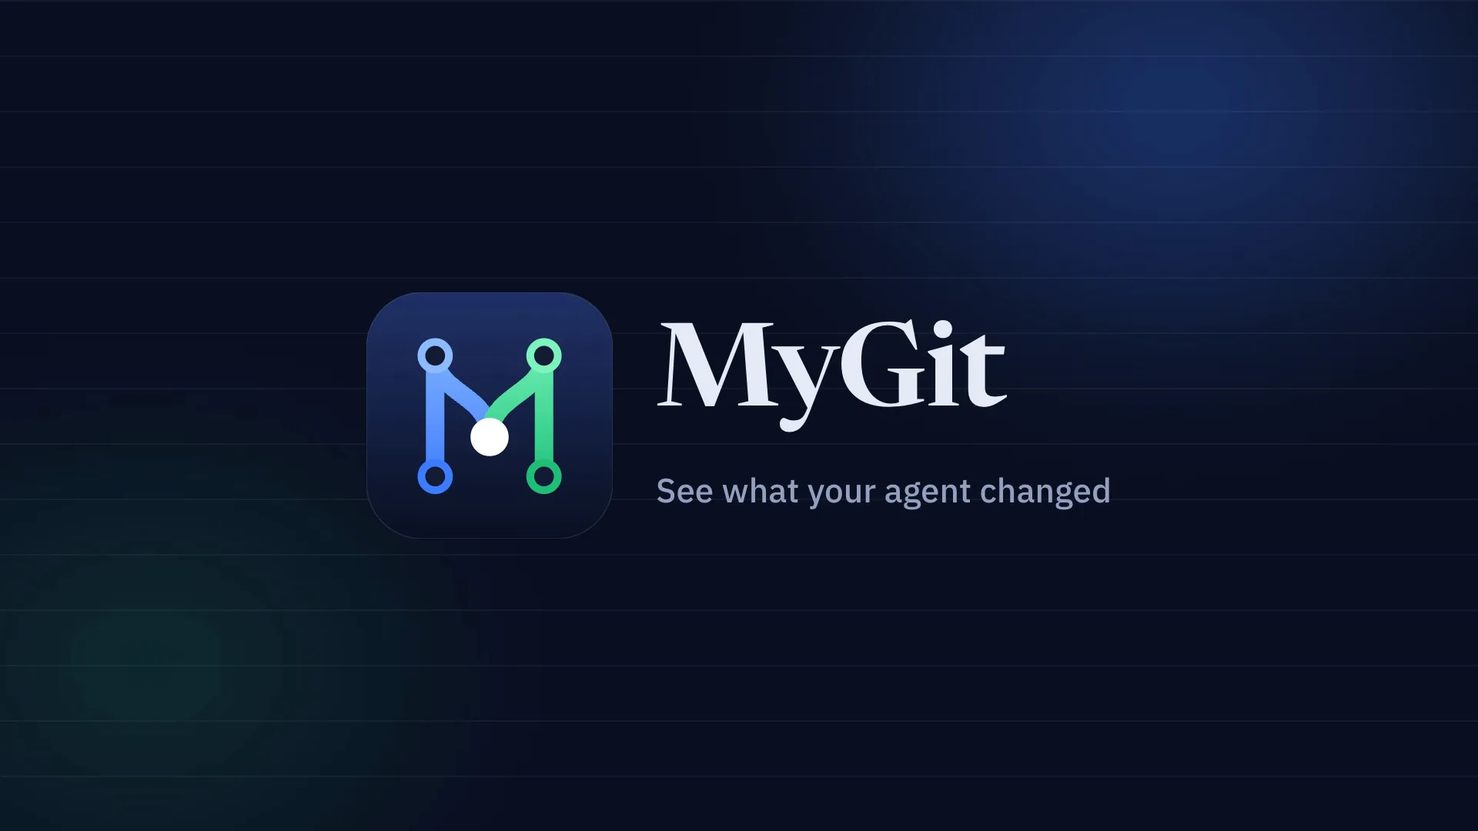
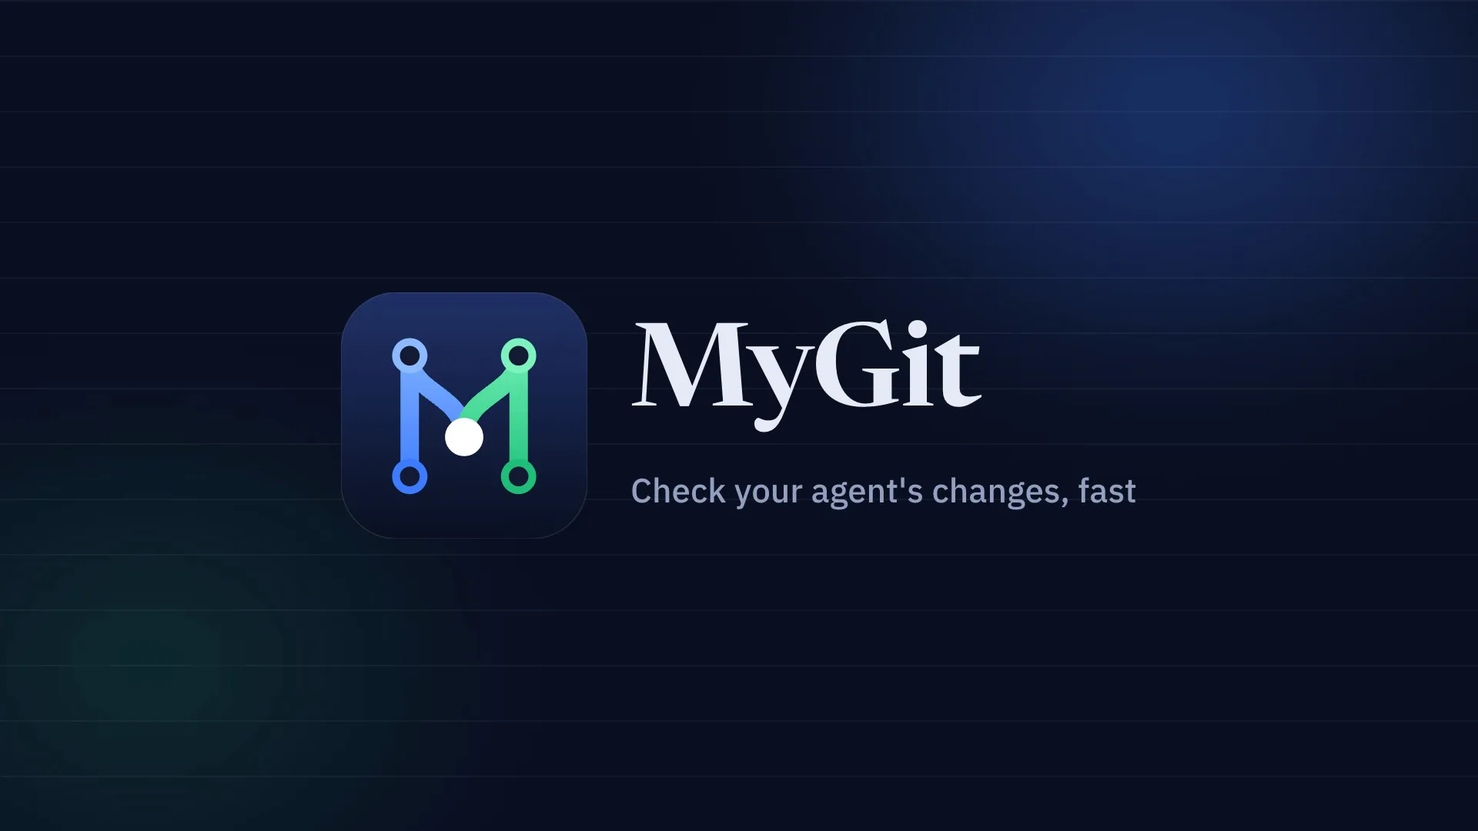
Say what MyGit is for: checking an agent's changes, fast

Changed region(s): [[0.2188, 0.3361, 0.6875, 0.6111], [0.4062, 0.5806, 0.7812, 0.6111]]

diff --git a/video/vertical/index.html b/video/vertical/index.html
@@ -76,8 +76,12 @@
 
       /* ---------- Scene 7: the memory ---------- */
       #s7 { padding: 0 0 0 132px; display: flex; flex-direction: column; justify-content: center; }
-      #s7 .headline { font-size: 100px; margin: 18px 0 60px; }
-      #root.zh #s7 .headline { font-size: 92px; }
+      #s7 .headline { font-size: 84px; margin: 18px 0 44px; }
+      .stats { display: flex; gap: 90px; margin-bottom: 48px; }
+      .stat { display: flex; flex-direction: column; gap: 10px; max-width: 560px; }
+      .stat b { font: 600 76px/1 var(--mono); color: var(--green); }
+      .stat > span { font-size: 28px; color: var(--muted); }
+      #root.zh #s7 .headline { font-size: 80px; }
       .bar-row { display: grid; grid-template-columns: 360px 1060px 220px; align-items: center; gap: 36px; margin-bottom: 30px; }
       .bar-label { font-size: 36px; color: var(--muted); }
       .bar-label.me { color: #E6ECF7; font-weight: 600; }
@@ -112,8 +116,12 @@
       #s1 .tag { margin-top: 10px; font-size: 50px; }
       #app { left: 40px; top: 510px; width: 1000px; height: 740px; }
       #s7 { padding: 0 70px 260px; }
-      #s7 .headline { font-size: 96px; margin: 18px 0 70px; }
-      #root.zh #s7 .headline { font-size: 92px; }
+      #s7 .headline { font-size: 84px; margin: 18px 0 50px; }
+      .stats { gap: 40px; margin-bottom: 56px; }
+      .stat { max-width: 440px; }
+      .stat b { font-size: 80px; }
+      .stat > span { font-size: 30px; }
+      #root.zh #s7 .headline { font-size: 80px; }
       .bar-row { grid-template-columns: 1fr 240px; gap: 16px 24px; margin-bottom: 44px; }
       .bar-label { grid-column: 1 / -1; font-size: 40px; }
       .bar-value { font-size: 44px; }
@@ -159,7 +167,7 @@
         </svg>
         <div data-hf-id="hf-trrc" class="word">
           <div data-hf-id="hf-plil" class="name">MyGit</div>
-          <div data-hf-id="hf-9ojz" class="tag" data-t="tagline">See what your agent changed</div>
+          <div data-hf-id="hf-9ojz" class="tag" data-t="tagline">Check your agent's changes, fast</div>
         </div>
       </section>
 
@@ -206,7 +214,7 @@
       </div>
 
       <section data-hf-id="hf-x1hi" id="s2" class="clip" data-start="3.5" data-duration="7.5" data-track-index="3">
-        <div data-hf-id="hf-8hv4" class="cap high" id="cap2"><p data-hf-id="hf-s4jw" class="eyebrow"><b data-hf-id="hf-wxem">$</b>git status</p><h2 data-hf-id="hf-2g5c" class="headline" data-t="s2">Changes show up as the agent works</h2></div>
+        <div data-hf-id="hf-8hv4" class="cap high" id="cap2"><p data-hf-id="hf-s4jw" class="eyebrow"><b data-hf-id="hf-wxem">$</b>git status</p><h2 data-hf-id="hf-2g5c" class="headline" data-t="s2">It edits, you see it. No refresh</h2></div>
       </section>
       <section data-hf-id="hf-jt35" id="s3" class="clip" data-start="11" data-duration="6" data-track-index="3">
         <div data-hf-id="hf-xclk" class="cap" id="cap3"><p data-hf-id="hf-gu14" class="eyebrow"><b data-hf-id="hf-l9t1">01</b>git diff</p><h2 data-hf-id="hf-hxqy" class="headline" data-t="s3">Every change, side by side</h2></div>
@@ -218,13 +226,18 @@
         <div data-hf-id="hf-wjzi" class="cap high" id="cap5"><p data-hf-id="hf-wfn4" class="eyebrow"><b data-hf-id="hf-q3a8">03</b>comments → agent</p><h2 data-hf-id="hf-uhgs" class="headline" data-t="s5">Hand the rest back to the agent</h2></div>
       </section>
       <section data-hf-id="hf-a050" id="s6" class="clip" data-start="30" data-duration="4" data-track-index="3">
-        <div data-hf-id="hf-a051" class="cap" id="cap6"><p data-hf-id="hf-a052" class="eyebrow"><b data-hf-id="hf-a053">$</b>git log --graph</p><h2 data-hf-id="hf-a054" class="headline" data-t="s6">The IDE you know, without the IDE</h2><p data-hf-id="hf-a055" class="sub" data-t="s6sub">JetBrains' graph and history, VS Code's staging</p></div>
+        <div data-hf-id="hf-a051" class="cap" id="cap6"><p data-hf-id="hf-a052" class="eyebrow"><b data-hf-id="hf-a053">$</b>mygit .</p><h2 data-hf-id="hf-a054" class="headline" data-t="s6">Opens at once.
+No IDE needed</h2><p data-hf-id="hf-a055" class="sub" data-t="s6sub">JetBrains' graph and history, VS Code's staging</p></div>
       </section>
 
       <!-- 7 · The memory it saves -->
       <section data-hf-id="hf-o8jn" id="s7" class="clip" data-start="34" data-duration="4" data-track-index="1">
-        <p data-hf-id="hf-d5fg" class="eyebrow"><b data-hf-id="hf-vqav">$</b>ps -o rss</p>
-        <h2 data-hf-id="hf-hsvb" class="headline" data-t="s7">A fraction of the memory</h2>
+        <p data-hf-id="hf-d5fg" class="eyebrow"><b data-hf-id="hf-vqav">$</b>go test -bench .</p>
+        <h2 data-hf-id="hf-hsvb" class="headline" data-t="s7">Fast, in a fraction of the memory</h2>
+        <div data-hf-id="hf-a080" class="stats">
+          <div data-hf-id="hf-a081" class="stat"><b data-hf-id="hf-a082"><span data-hf-id="hf-a083" id="v-read">0.00</span> s</b><span data-hf-id="hf-a084" data-t="read">to read 20,000 commits and lay out the graph</span></div>
+          <div data-hf-id="hf-a085" class="stat"><b data-hf-id="hf-a086"><span data-hf-id="hf-a087" id="v-open">0.00</span> s</b><span data-hf-id="hf-a088" data-t="open">to open a commit with a 20 MB patch</span></div>
+        </div>
         <div data-hf-id="hf-vxho" class="bar-row">
           <div data-hf-id="hf-argy" class="bar-label me">MyGit</div>
           <div data-hf-id="hf-ufsv" class="bar"><div data-hf-id="hf-1jw9" id="fill-me" class="fill"></div></div>
@@ -247,7 +260,7 @@
       <section data-hf-id="hf-8ref" id="s8" class="clip" data-start="38" data-duration="4" data-track-index="1">
         <img data-hf-id="hf-n4tg" id="end-mark" src="assets/logo.svg" alt="" />
         <div data-hf-id="hf-tof5" class="name">MyGit</div>
-        <div data-hf-id="hf-a070" class="tag" data-t="tagline">See what your agent changed</div>
+        <div data-hf-id="hf-a070" class="tag" data-t="tagline">Check your agent's changes, fast</div>
         <div data-hf-id="hf-exrd" class="chips">
           <div data-hf-id="hf-u5aj" class="chip">macOS</div>
           <div data-hf-id="hf-776b" class="chip">Windows</div>

diff --git a/video/demo/index.html b/video/demo/index.html
@@ -76,9 +76,13 @@
 
       /* ---------- Scene 7: the memory ---------- */
       #s7 { padding: 0 0 0 132px; display: flex; flex-direction: column; justify-content: center; }
-      #s7 .headline { font-size: 100px; margin: 18px 0 60px; }
-      #root.zh #s7 .headline { font-size: 92px; }
-      .bar-row { display: grid; grid-template-columns: 360px 1060px 220px; align-items: center; gap: 36px; margin-bottom: 30px; }
+      #s7 .headline { font-size: 84px; margin: 18px 0 44px; }
+      .stats { display: flex; gap: 90px; margin-bottom: 48px; }
+      .stat { display: flex; flex-direction: column; gap: 10px; max-width: 560px; }
+      .stat b { font: 600 76px/1 var(--mono); color: var(--green); }
+      .stat > span { font-size: 28px; color: var(--muted); }
+      #root.zh #s7 .headline { font-size: 80px; }
+      .bar-row { display: grid; grid-template-columns: 360px 1060px 220px; align-items: center; gap: 36px; margin-bottom: 20px; }
       .bar-label { font-size: 36px; color: var(--muted); }
       .bar-label.me { color: #E6ECF7; font-weight: 600; }
       .bar { height: 44px; border-radius: 22px; background: rgba(31, 42, 72, .8); overflow: hidden; }
@@ -133,7 +137,7 @@
         </svg>
         <div data-hf-id="hf-trrc" class="word">
           <div data-hf-id="hf-plil" class="name">MyGit</div>
-          <div data-hf-id="hf-9ojz" class="tag" data-t="tagline">See what your agent changed</div>
+          <div data-hf-id="hf-9ojz" class="tag" data-t="tagline">Check your agent's changes, fast</div>
         </div>
       </section>
 
@@ -180,7 +184,7 @@
       </div>
 
       <section data-hf-id="hf-x1hi" id="s2" class="clip" data-start="3.5" data-duration="7.5" data-track-index="3">
-        <div data-hf-id="hf-8hv4" class="cap high" id="cap2"><p data-hf-id="hf-s4jw" class="eyebrow"><b data-hf-id="hf-wxem">$</b>git status</p><h2 data-hf-id="hf-2g5c" class="headline" data-t="s2">Changes show up as the agent works</h2></div>
+        <div data-hf-id="hf-8hv4" class="cap high" id="cap2"><p data-hf-id="hf-s4jw" class="eyebrow"><b data-hf-id="hf-wxem">$</b>git status</p><h2 data-hf-id="hf-2g5c" class="headline" data-t="s2">It edits, you see it. No refresh</h2></div>
       </section>
       <section data-hf-id="hf-jt35" id="s3" class="clip" data-start="11" data-duration="6" data-track-index="3">
         <div data-hf-id="hf-xclk" class="cap" id="cap3"><p data-hf-id="hf-gu14" class="eyebrow"><b data-hf-id="hf-l9t1">01</b>git diff</p><h2 data-hf-id="hf-hxqy" class="headline" data-t="s3">Every change, side by side</h2></div>
@@ -192,13 +196,18 @@
         <div data-hf-id="hf-wjzi" class="cap high" id="cap5"><p data-hf-id="hf-wfn4" class="eyebrow"><b data-hf-id="hf-q3a8">03</b>comments → agent</p><h2 data-hf-id="hf-uhgs" class="headline" data-t="s5">Hand the rest back to the agent</h2></div>
       </section>
       <section data-hf-id="hf-a050" id="s6" class="clip" data-start="30" data-duration="4" data-track-index="3">
-        <div data-hf-id="hf-a051" class="cap" id="cap6"><p data-hf-id="hf-a052" class="eyebrow"><b data-hf-id="hf-a053">$</b>git log --graph</p><h2 data-hf-id="hf-a054" class="headline" data-t="s6">The IDE you know, without the IDE</h2><p data-hf-id="hf-a055" class="sub" data-t="s6sub">JetBrains' graph and history, VS Code's staging</p></div>
+        <div data-hf-id="hf-a051" class="cap" id="cap6"><p data-hf-id="hf-a052" class="eyebrow"><b data-hf-id="hf-a053">$</b>mygit .</p><h2 data-hf-id="hf-a054" class="headline" data-t="s6">Opens at once.
+No IDE needed</h2><p data-hf-id="hf-a055" class="sub" data-t="s6sub">JetBrains' graph and history, VS Code's staging</p></div>
       </section>
 
       <!-- 7 · The memory it saves -->
       <section data-hf-id="hf-o8jn" id="s7" class="clip" data-start="34" data-duration="4" data-track-index="1">
-        <p data-hf-id="hf-d5fg" class="eyebrow"><b data-hf-id="hf-vqav">$</b>ps -o rss</p>
-        <h2 data-hf-id="hf-hsvb" class="headline" data-t="s7">A fraction of the memory</h2>
+        <p data-hf-id="hf-d5fg" class="eyebrow"><b data-hf-id="hf-vqav">$</b>go test -bench .</p>
+        <h2 data-hf-id="hf-hsvb" class="headline" data-t="s7">Fast, in a fraction of the memory</h2>
+        <div data-hf-id="hf-a080" class="stats">
+          <div data-hf-id="hf-a081" class="stat"><b data-hf-id="hf-a082"><span data-hf-id="hf-a083" id="v-read">0.00</span> s</b><span data-hf-id="hf-a084" data-t="read">to read 20,000 commits and lay out the graph</span></div>
+          <div data-hf-id="hf-a085" class="stat"><b data-hf-id="hf-a086"><span data-hf-id="hf-a087" id="v-open">0.00</span> s</b><span data-hf-id="hf-a088" data-t="open">to open a commit with a 20 MB patch</span></div>
+        </div>
         <div data-hf-id="hf-vxho" class="bar-row">
           <div data-hf-id="hf-argy" class="bar-label me">MyGit</div>
           <div data-hf-id="hf-ufsv" class="bar"><div data-hf-id="hf-1jw9" id="fill-me" class="fill"></div></div>
@@ -221,7 +230,7 @@
       <section data-hf-id="hf-8ref" id="s8" class="clip" data-start="38" data-duration="4" data-track-index="1">
         <img data-hf-id="hf-n4tg" id="end-mark" src="assets/logo.svg" alt="" />
         <div data-hf-id="hf-tof5" class="name">MyGit</div>
-        <div data-hf-id="hf-a070" class="tag" data-t="tagline">See what your agent changed</div>
+        <div data-hf-id="hf-a070" class="tag" data-t="tagline">Check your agent's changes, fast</div>
         <div data-hf-id="hf-exrd" class="chips">
           <div data-hf-id="hf-u5aj" class="chip">macOS</div>
           <div data-hf-id="hf-776b" class="chip">Windows</div>

diff --git a/site/index.html b/site/index.html
@@ -3,10 +3,10 @@
 <head>
   <meta charset="utf-8">
   <meta name="viewport" content="width=device-width, initial-scale=1">
-  <title>MyGit — see what your agent changed</title>
-  <meta name="description" content="See what your agent changed: every change in your working tree, side by side, as it lands. A light, fast, modern git client with JetBrains' commit graph and history tools and VS Code's way of staging, in a fraction of the memory.">
-  <meta property="og:title" content="MyGit — see what your agent changed">
-  <meta property="og:description" content="Every change, side by side, as it lands. A light, native git client for macOS, Windows and Linux.">
+  <title>MyGit — check your agent's changes, fast</title>
+  <meta name="description" content="Check your agent's changes, fast: mygit . in a terminal opens it in a moment, and it refreshes as the agent works. A light, fast, modern git client with JetBrains' commit graph and history tools and VS Code's way of staging, in a fraction of the memory.">
+  <meta property="og:title" content="MyGit — check your agent's changes, fast">
+  <meta property="og:description" content="Opens in a moment from a terminal, refreshes as the agent works. A light, native git client for macOS, Windows and Linux.">
   <meta property="og:image" content="assets/main-en.webp">
   <meta name="theme-color" content="#07090F">
   <link rel="icon" href="assets/favicon.png">
@@ -51,8 +51,8 @@
         <span data-i18n="hero.pill">Made for coding with agents · Native · Light</span>
         <span class="pill-arrow" aria-hidden="true">→</span>
       </a>
-      <h1 data-i18n-html="hero.title">See what your agent<br><span class="grad">changed</span></h1>
-      <p class="lede" data-i18n="hero.lede">Every change in your working tree, side by side, as it lands. Stage what's right and commit, without opening an IDE — in a light, fast, modern git client with JetBrains' history tools and VS Code's way of staging.</p>
+      <h1 data-i18n-html="hero.title">Check your agent's<br><span class="grad">changes, fast</span></h1>
+      <p class="lede" data-i18n-html="hero.lede"><code>mygit .</code> in a terminal opens it in a moment, and it refreshes as the agent works. Stage what's right and commit, without waiting for an IDE — in a light, fast, modern git client with JetBrains' history tools and VS Code's way of staging.</p>
       <div class="cta">
         <a class="btn btn-primary" href="#install" data-i18n="hero.get">Get MyGit</a>
         <a class="btn btn-ghost" href="#demo"><span aria-hidden="true">▶</span> <span data-i18n="hero.watch">Watch the demo</span></a>
@@ -85,7 +85,7 @@
     <section id="why" class="section">
       <p class="eyebrow" data-i18n="flow.eyebrow">Made for coding with agents</p>
       <h2 data-i18n="flow.title">Most of your time in git is spent looking at what changed.</h2>
-      <p class="section-lede" data-i18n="flow.lede">MyGit is made for that. It reads the repository, not an agent's session, so it works the same with any agent, with several at once, and with your own edits.</p>
+      <p class="section-lede" data-i18n="flow.lede">MyGit makes that quick. It reads the repository, not an agent's session, so it works the same with any agent, with several at once, and with your own edits.</p>
 
       <ol class="steps reveal">
         <li class="card">

diff --git a/video/demo/film.js b/video/demo/film.js
@@ -5,27 +5,31 @@
 
 const TEXT = {
   en: {
-    tagline: "See what your agent changed",
-    s2: "Changes show up as the agent works",
-    s3: "Every change, side by side",
-    s4: "Stage what's right",
-    s5: "Hand the rest back to the agent",
-    s6: "The IDE you know, without the IDE",
+    tagline: "Check your agent's changes, fast",
+    s2: "It edits,\nyou see it.\nNo refresh",
+    s3: "One click,\nside by side",
+    s4: "Stage what's right,\nin one click",
+    s5: "Copy the rest\nback to the agent",
+    s6: "Opens at once.\nNo IDE needed",
     s6sub: "JetBrains' graph and history, VS Code's staging",
-    s7: "A fraction of the memory",
+    s7: "Fast, in a fraction of the memory",
+    read: "to read 20,000 commits and lay out the graph",
+    open: "to open a commit with a 20 MB patch",
     note: "Memory with a repository of 20,000 commits open",
     ask: "add retries to fetchAll, with a test",
     reply: "After the third try this gives up without a word…",
   },
   zh: {
-    tagline: "看清 agent 改了什么",
-    s2: "agent 改着，\n改动就出现",
-    s3: "看：每处改动，\n并排看清",
-    s4: "留：没问题的，\n先暂存",
-    s5: "退：其余的，\n交回给 agent",
-    s6: "熟悉的 IDE 体验，\n不用打开 IDE",
+    tagline: "快速查看 agent 的改动",
+    s2: "不用刷新，\n它改到哪你看到哪",
+    s3: "看：点一下，\n就是并排 diff",
+    s4: "留：没问题的，\n一键暂存",
+    s5: "退：其余的，\n一键交回 agent",
+    s6: "终端一句命令，\n秒开，不用等 IDE",
     s6sub: "JetBrains 的分支图和历史，VS Code 的暂存方式",
-    s7: "内存只要零头",
+    s7: "快，内存还只要零头",
+    read: "读完 2 万个提交并布局分支图",
+    open: "打开一个 20 MB 补丁的提交",
     note: "打开 2 万个提交的仓库后的内存占用",
     ask: "给 fetchAll 加上重试，再补个测试",
     reply: "试满三次就悄悄放弃了…",
@@ -185,6 +189,14 @@ function film(cam, register) {
     // 7 · dataviz-countup with stat-bars-and-fills: the bars grow and their
     // numbers count up.
     tl.fromTo("#s7 > *", { opacity: 0, y: 30 }, { opacity: 1, y: 0, duration: 0.5, ease: "power3.out", stagger: 0.08 }, 34.1);
+    const speed = { read: 0, open: 0 };
+    tl.fromTo(speed, { read: 0, open: 0 }, {
+      read: 0.13, open: 0.24, duration: 1.2, ease: "power2.out",
+      onUpdate: () => {
+        document.getElementById("v-read").textContent = speed.read.toFixed(2);
+        document.getElementById("v-open").textContent = speed.open.toFixed(2);
+      },
+    }, 34.4);
     const bars = [["#fill-me", "#v-me", 109], ["#fill-code", "#v-code", 1000], ["#fill-idea", "#v-idea", 2300]];
     const count = { me: 0, code: 0, idea: 0 };
     bars.forEach(([fill, , mb]) => tl.fromTo(fill, { scaleX: 0 }, { scaleX: mb / 2300, duration: 1.5, ease: "power2.out" }, 34.5));

diff --git a/site/main.js b/site/main.js
@@ -7,8 +7,8 @@ const zh = {
   "nav.features": "功能",
   "nav.install": "安装",
   "hero.pill": "为 agent 写代码而做 · 原生 · 轻量",
-  "hero.title": "<span class=\"nw\">看清 agent</span><br><span class=\"grad nw\">改了什么</span>",
-  "hero.lede": "工作区的每处改动，边改边并排显示。没问题的暂存、提交，不用打开 IDE：一个轻量、快速、现代的 git 客户端，有 JetBrains 的历史操作和 VS Code 的暂存方式。",
+  "hero.title": "<span class=\"nw\">快速查看</span><br><span class=\"grad nw\">agent 的改动</span>",
+  "hero.lede": "在终端里敲 <code>mygit .</code> 就能打开。agent 每改一个文件，这里马上就能看到，不用手动刷新；没问题的直接暂存、提交，不用等 IDE 启动。分支图和历史像 JetBrains，暂存像 VS Code，又轻又快。",
   "hero.get": "获取 MyGit",
   "hero.watch": "观看演示",
   "hero.platforms": "macOS · Windows · Linux",
@@ -16,9 +16,9 @@ const zh = {
   "demo.title": "一分钟内看懂 MyGit。",
   "flow.eyebrow": "为 agent 写代码而做",
   "flow.title": "用 git 的大部分时间，都在看改了什么。",
-  "flow.lede": "MyGit 就是为这件事做的。它读的是仓库，不是某个 agent 的会话，所以换哪个 agent、同时用几个、还是你自己改的代码，用起来都一样。",
+  "flow.lede": "MyGit 让这件事变快。它读的是仓库，不是某个 agent 的会话，所以换哪个 agent、同时用几个、还是你自己改的代码，用起来都一样。",
   "flow.s1.title": "看",
-  "flow.s1.body": "改动一落地就能看到：agent 改着窗口就自动刷新，每个文件并排对比、带语法高亮。锁文件和生成的文件自动折叠，图片改动显示前后对比。",
+  "flow.s1.body": "文件一改，这里马上就能看到，不用手动刷新。每个文件并排对比、带语法高亮。锁文件和生成的文件自动折叠，图片改动显示前后对比。",
   "flow.s2.title": "留",
   "flow.s2.body": "直接在 diff 里修一行，把没问题的文件、改动块或行暂存起来，然后提交。",
   "flow.s3.title": "退",
@@ -42,7 +42,7 @@ const zh = {
   "vs.ide": "打开 IDE",
   "vs.ide.a": "点开就能用，内存只要零头",
   "vs.term": "终端里跑 <code>git diff</code>",
-  "vs.term.a": "并排对比，生成文件自动折叠，agent 改着就自动刷新",
+  "vs.term.a": "并排对比，生成文件自动折叠，文件一改马上能看到",
   "features.eyebrow": "功能",
   "features.title": "常用的都在，用不上的一个没有。",
   "f1.title": "想暂存什么就暂存什么。",

diff --git a/site/style.css b/site/style.css
@@ -315,7 +315,7 @@ html[lang="zh-CN"] .hero h1 { line-height: 1.18; letter-spacing: 0; font-size: c
 .tile-6 .tile-copy { flex: 0 0 34%; padding: 36px; }
 .tile h3 { font-size: 22px; letter-spacing: -.02em; }
 .tile p { margin: 10px 0 0; color: var(--muted); font-size: 15px; }
-.tile p code { color: var(--green-hi); }
+.tile p code, .lede code { color: var(--green-hi); }
 .tile-shot {
   margin: 26px 0 0 30px;
   border-radius: 12px 0 0 0;

diff --git a/video/demo/STORYBOARD.md b/video/demo/STORYBOARD.md
@@ -1,7 +1,7 @@
 ---
 format: 1920x1080 (index.html), 1080x1920 (../vertical/index.html)
 duration: 42s
-message: "See what your agent changed: stage what's right, hand the rest back"
+message: "Check your agent's changes, fast: open it from a terminal, stage what's right, hand the rest back"
 arc: Brand → Agent at work → See → Keep → Send back → The IDE you know → Proof → Outro
 audience: developers who code with agents and find IDEs heavy
 mode: collaborative
@@ -14,38 +14,39 @@ own camera ([x, y, zoom] of the screenshots).
 
 ## Frame 1: Brand open (0-3.6s)
 - blueprint: logo-assemble-lockup
-- caption: "See what your agent changed" / "看清 agent 改了什么"
+- caption: "Check your agent's changes, fast" / "快速查看 agent 的改动"
 
 ## Frame 2: The agent at work (3.5-11s)
 - blueprint: device-surface-showcase (rules: cursor-ui-demo)
 - The agent's terminal lists its edits; the window refreshes with them, the
   change list growing from none to one to three (clean → one → three).
-- caption: "Changes show up as the agent works" / "agent 改着，改动就出现"
+- caption: "It edits, you see it. No refresh" / "不用刷新，它改到哪你看到哪"
 
 ## Frame 3: See (11-17s)
 - rules: cursor-click-ripple, coordinate-target-zoom
 - api.ts opens side by side; the camera pushes into the retry loop. The
   lockfile opens folded away.
-- caption: "Every change, side by side" / "看：每处改动，并排看清"
+- caption: "One click, side by side" / "看：点一下，就是并排 diff"
 
 ## Frame 4: Keep (17-22s)
 - rules: cursor-click-ripple
 - The lockfile and the test are staged with their + buttons; Staged Changes lights.
-- caption: "Stage what's right" / "留：没问题的，先暂存"
+- caption: "Stage what's right, in one click" / "留：没问题的，一键暂存"
 
 ## Frame 5: Send back (22-30s)
 - rules: coordinate-target-zoom, cursor-click-ripple
 - A comment on lines 10-11; "1 Comment" → "Copy as Markdown" → the copied
   bar; the Markdown pasted into the agent's terminal, and the agent edits again.
-- caption: "Hand the rest back to the agent" / "退：其余的，交回给 agent"
+- caption: "Copy the rest back to the agent" / "退：其余的，一键交回 agent"
 
-## Frame 6: The IDE you know (30-34s)
+## Frame 6: Opens at once (30-34s)
 - The graph, the branch search and the three-pane merge in quick cuts.
-- caption: "The IDE you know, without the IDE" / "熟悉的 IDE 体验，不用打开 IDE"
+- eyebrow: "$ mygit ."
+- caption: "Opens at once. No IDE needed" / "终端一句命令，秒开，不用等 IDE"
 
-## Frame 7: A fraction of the memory (34-38s)
+## Frame 7: Fast, in a fraction of the memory (34-38s)
 - blueprint: dataviz-countup (rules: stat-bars-and-fills)
-- MyGit 109 MB, VS Code 1,000 MB, IntelliJ IDEA 2,300 MB.
+- 0.13 s to read 20,000 commits, 0.24 s to open a 20 MB commit; then MyGit 109 MB, VS Code 1,000 MB, IntelliJ IDEA 2,300 MB.
 
 ## Frame 8: Outro (38-42s)
 - The logo, the name, the tagline, the platforms and languages, the address.

diff --git a/README.md b/README.md
@@ -5,8 +5,8 @@
 <h1 align="center">MyGit</h1>
 
 <p align="center">
-  <b>See what your agent changed.</b><br>
-  Every change in your working tree, side by side, as it lands; stage what's right and commit, without opening an IDE.<br>
+  <b>Check your agent's changes, fast</b><br>
+  <code>mygit .</code> in a terminal opens it in a moment, and it refreshes as the agent works; stage what's right and commit, without waiting for an IDE.<br>
   A light, fast, modern git client: JetBrains' commit graph and history tools, VS Code's way of staging, in a fraction of the memory.
 </p>
 
@@ -32,7 +32,7 @@
 
 ## Why MyGit
 
-With an agent writing the code, most of your time in git goes to looking at what changed. MyGit is made for that:
+With an agent writing the code, most of your time in git goes to looking at what changed. MyGit makes that quick:
 
 1. **See** every change as it lands: the window refreshes while the agent works, each file side by side with syntax highlighting. Lockfiles, minified and generated files fold away, and changed pictures show before and after.
 2. **Keep** what's right: fix a line right in the diff, stage the files, changes or lines you want, and commit.

diff --git a/video/demo/BRIEF.md b/video/demo/BRIEF.md
@@ -2,7 +2,7 @@
 workflow: general-video
 flow: automation
 storyboard: yes
-message: "MyGit: see what your agent changed — stage what's right, hand the rest back; the IDE you know, in a fraction of the memory"
+message: "MyGit: check your agent's changes, fast — mygit . opens it at once; stage what's right, hand the rest back; in a fraction of the memory"
 destination: github-readme, site, douyin
 aspect: 1920x1080 (video/demo), 1080x1920 (video/vertical)
 language: en, zh-Hans
